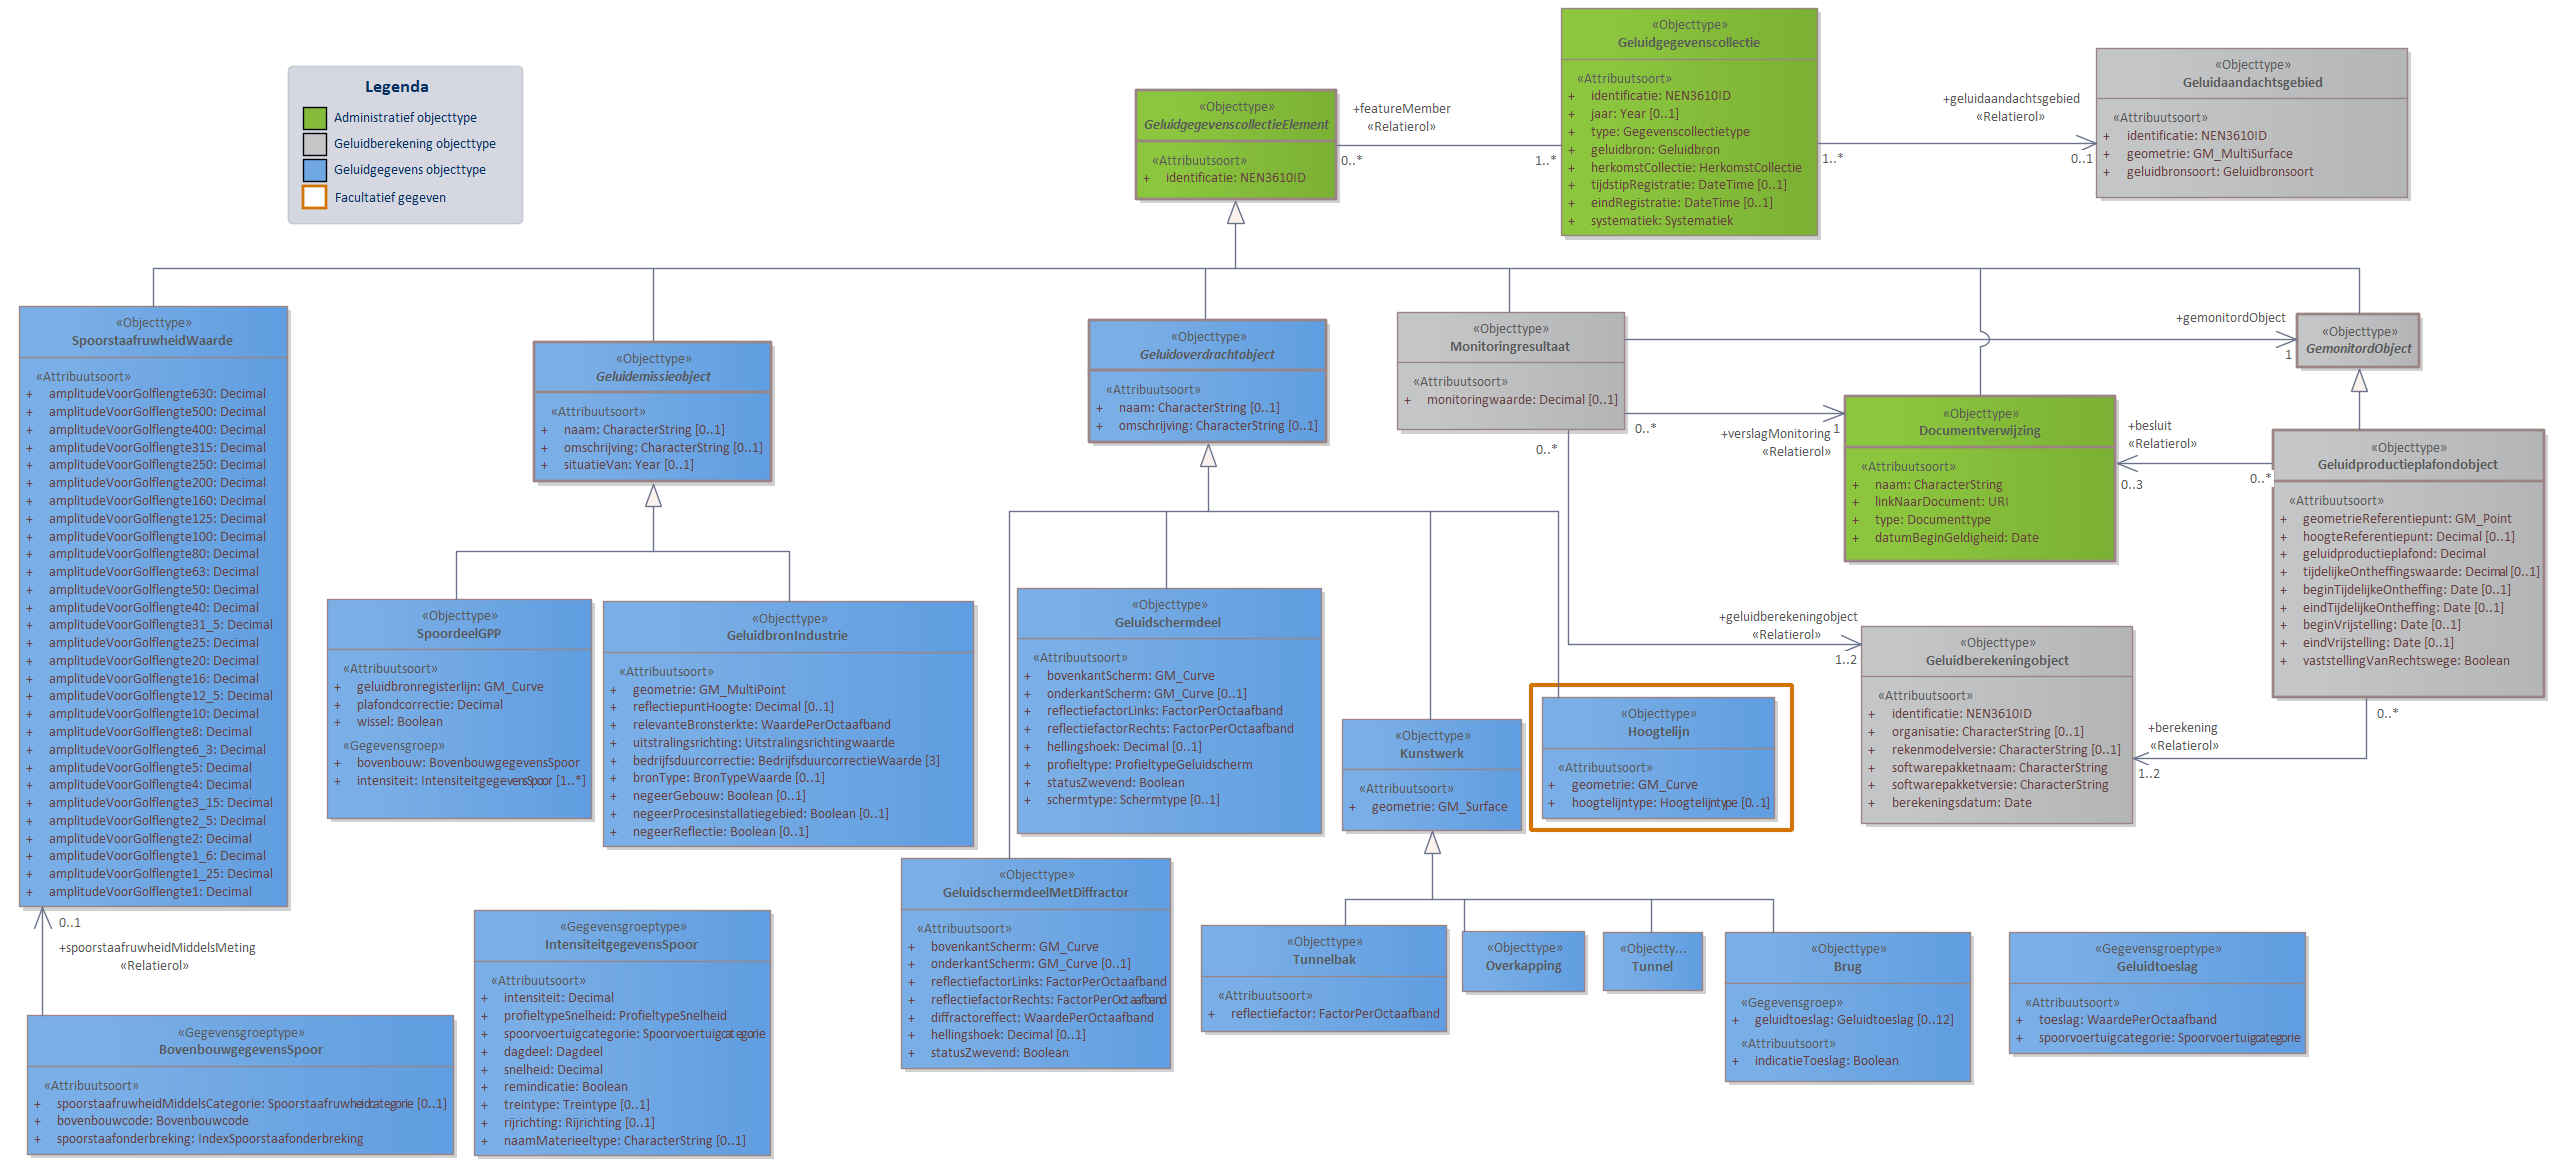
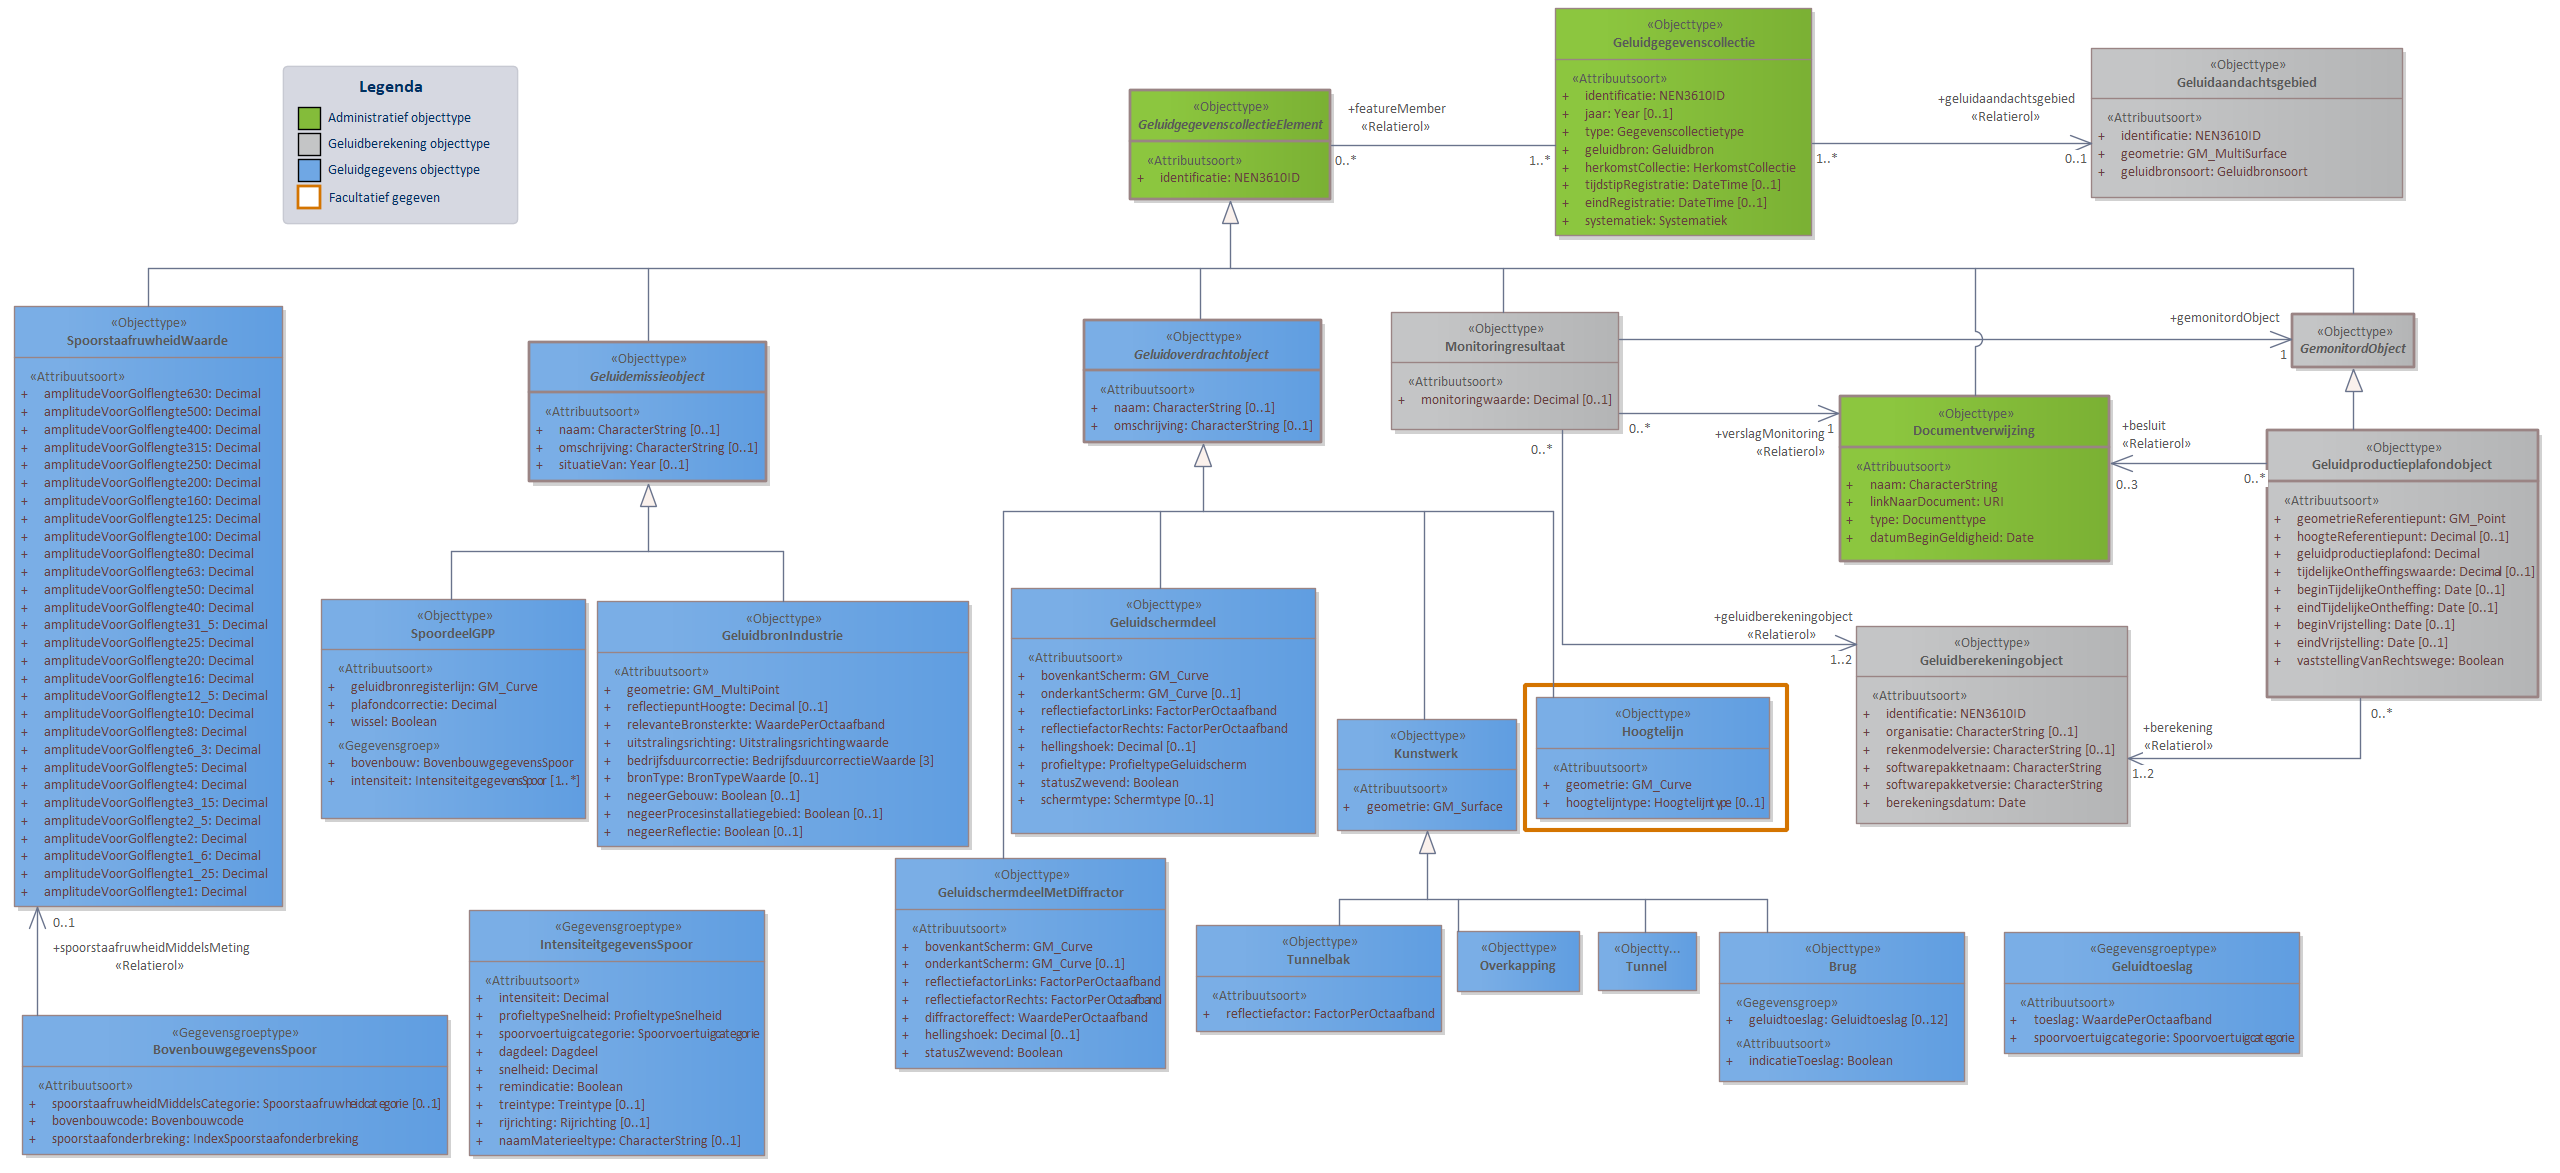
MIMLM-InformatiemodelGeluid-3.1-0-20230920-20230919-150519

diff --git a/data/IMG-cat.respec.html b/data/IMG-cat.respec.html
@@ -1,7 +1,7 @@
 
 <!DOCTYPE HTML><section id="cat" class="normative">
    <h2>Gegevensdefinitie</h2>
-   <!--MIMLM-InformatiemodelGeluid-2.1-0-20221025-20230919-143012 imvertor 1.67.1-->
+   <!--MIMLM-InformatiemodelGeluid-3.1-0-20230920-20230919-150519 imvertor 1.67.1-->
    <section id="EAID_66AE8FA2_74FC_4d4d_B2B2_249C8D6A651F">
       <h3>   Basismodel - overzicht</h3>
       <div class="imageinfo overview"><img src="data/Images/EAID_66AE8FA2_74FC_4d4d_B2B2_249C8D6A651F.png" usemap="#imagemap-EAID_66AE8FA2_74FC_4d4d_B2B2_249C8D6A651F" alt="Diagram &#xA;                        Het Basismodel vormt de samenhang tussen alle domeinen van het IMGeluid. Alle objecttypen en relaties uit het IMGeluid komen samen in een Geluidgegevenscollectie.&#xA;Binnen het IMGeluid worden geluidbrongegevens die gebruikt worden voor GPP en BGE berekeningen, gemodelleerd als een Geluidemissie of Geluidoverdrachtobject. De resultaten van GPP of BGE berekeningen worden opgeslagen in een Geluidgegevenscollectie. De onderliggende juridische vastleggingen, vaststellingen, of monitoringsverslagen van deze omgevings- of monitoringswaarden, worden ook opgeslagen in dezelfde Geluidgegevenscollectie.&#xA;Per geluidbron per toepassing kan er een Geluidgegevenscollectie bestaan. Deze kan geassocieerd worden met maximaal 1 Geluidaandachtsgebied. Wanneer geluidgegevens met betrekking tot cumulatieberekeningen worden aangeleverd, bevat een Geluidgegevenscollectie geen Geluidaandachtsgebied.&#xA;Klik met de rechtermuisknop op het diagram om de afbeelding op volledige grootte in een nieuw tabblad te openen.&#xA;                     "><map name="imagemap-EAID_66AE8FA2_74FC_4d4d_B2B2_249C8D6A651F"><area shape="rect" alt="GemonitordObject" coords="864,436,987,491" href="#graph_EAID_5DD80772_ECDE_480d_9FC2_E806D8FD565E"><area shape="rect" alt="GeluidgegevenscollectieElement" coords="49,98,286,202" href="#graph_EAID_924BD078_D715_461a_B7E9_D7176A7406E0"><area shape="rect" alt="Monitoringresultaat" coords="349,575,597,689" href="#graph_EAID_BA00B77B_D408_4590_8185_CE59E5838F1E"><area shape="rect" alt="Basisgeluidemissieobject" coords="646,633,876,734" href="#graph_EAID_9AD15457_4880_42e5_8C72_4E5EFAC91B15"><area shape="rect" alt="Geluidproductieplafondobject" coords="898,633,1173,881" href="#graph_EAID_237408F8_8CE9_4828_B8FB_1A5B8C917622"><area shape="rect" alt="Geluidberekeningobject" coords="429,857,701,1050" href="#graph_EAID_97ED59FE_9FCA_49a6_8F07_214E48000B76"><area shape="rect" alt="Documentverwijzing" coords="390,313,608,474" href="#graph_EAID_7E137496_1028_4af5_9367_569358A2167B"><area shape="rect" alt="Geluidaandachtsgebied" coords="921,81,1148,220" href="#graph_EAID_B06128AC_518C_4e26_88E5_14ED5A050A19"><area shape="rect" alt="Geluidgegevenscollectie" coords="454,14,723,242" href="#graph_EAID_313C5AF9_49B8_4860_9E65_DE7C70084864"><area shape="rect" alt="Geluidemissieobject" coords="14,622,242,765" href="#graph_EAID_361C96BA_A638_494e_80BA_590ED481A81B"><area shape="rect" alt="Geluidoverdrachtobject" coords="68,320,318,441" href="#graph_EAID_2FEA326B_B7E7_48a4_B50F_00CCB2694677"></map><p><b>Basismodel - overzicht</b>
@@ -88,7 +88,7 @@
    </section>
    <section id="EAID_33DF05AD_62E8_41d4_8CC0_8980CB80739F">
       <h3>   GPP Spoor - overzicht</h3>
-      <div class="imageinfo overview"><img src="data/Images/EAID_33DF05AD_62E8_41d4_8CC0_8980CB80739F.png" usemap="#imagemap-EAID_33DF05AD_62E8_41d4_8CC0_8980CB80739F" alt="Diagram &#xA;                        In domeinmodel GPP Spoor staan objecttypen en relaties die relevant zijn voor geluidbronbeheersing van spoorwegen waarvoor de geluidproductieplafond regeling geldt; en die nodig zijn voor akoestisch onderzoek binnen het geluidaandachtsgebied van spoorwegen.&#xA;Geluidbronnen binnen GPP Spoor worden opgeslagen als lijnbron conform het object SpoordeelGPP, behalve voor geluidbronnen binnen spoorwegemplacementen. Deze geluidbronnen worden opgeslagen als GeluidbronIndustrie.&#xA;Voor ieder Geluidproductieplafondobject langs een Hoofdspoorweg, valt te herleiden op welke geluidberekening de geluidproductieplafondwaarde gebaseerd is. Deze informatie wordt bijgehouden conform het Geluidberekeningobject.&#xA;Ook valt er te herleiden welke geluidbrongegevens gebruikt zijn bij een geluidberekening. Deze geluidbrongegevens zijn samen met het Geluidberekeningsobject terug te vinden in een  Geluidgegevenscollectie in de vorm van gespecialiseerde geluidemissie- en geluidoverdrachtsobjecten.&#xA;&#xA;Klik met de rechtermuisknop op het diagram om de afbeelding op volledige grootte in een nieuw tabblad te openen&#xA;&#xA;                     "><map name="imagemap-EAID_33DF05AD_62E8_41d4_8CC0_8980CB80739F"><area shape="rect" alt="GemonitordObject" coords="2297,314,2420,368" href="#graph_EAID_5DD80772_ECDE_480d_9FC2_E806D8FD565E"><area shape="rect" alt="GeluidschermdeelMetDiffractor" coords="901,858,1171,1069" href="#graph_EAID_0A4CA1DE_F6B4_471a_9AC9_690315ADE781"><area shape="rect" alt="IntensiteitgegevensSpoor" coords="474,910,771,1156" href="#graph_EAID_5FFCEE29_DD71_45db_926C_AB9A7E8677F3"><area shape="rect" alt="BovenbouwgegevensSpoor" coords="27,1015,454,1155" href="#graph_EAID_B5BBEDFE_C275_4c9f_BFF4_0440A0F7820B"><area shape="rect" alt="SpoorstaafruwheidWaarde" coords="19,306,288,907" href="#graph_EAID_E5D9E12A_27B9_417c_ABEB_2149C046EBE0"><area shape="rect" alt="GeluidgegevenscollectieElement" coords="1136,90,1337,200" href="#graph_EAID_924BD078_D715_461a_B7E9_D7176A7406E0"><area shape="rect" alt="Geluidtoeslag" coords="2009,932,2306,1054" href="#graph_EAID_FB0866C8_1438_445a_BB63_B798A00E1626"><area shape="rect" alt="Geluidgegevenscollectie" coords="1561,8,1818,236" href="#graph_EAID_313C5AF9_49B8_4860_9E65_DE7C70084864"><area shape="rect" alt="Monitoringresultaat" coords="1397,312,1625,430" href="#graph_EAID_BA00B77B_D408_4590_8185_CE59E5838F1E"><area shape="rect" alt="GeluidbronIndustrie" coords="603,601,974,847" href="#graph_EAID_7B6D3D2D_0C70_435a_AAFC_FABC9CD61353"><area shape="rect" alt="Kunstwerk" coords="1342,719,1522,831" href="#graph_EAID_E7C0AB60_EC07_4e4f_8F38_E279188D028A"><area shape="rect" alt="Overkapping" coords="1462,931,1585,992" href="#graph_EAID_68402E1D_9370_4bd4_87E6_A21FD883E5B5"><area shape="rect" alt="Tunnelbak" coords="1201,925,1447,1032" href="#graph_EAID_5A041C70_3BE7_4273_87C7_341981B09801"><area shape="rect" alt="Tunnel" coords="1603,932,1703,991" href="#graph_EAID_52FB0AD2_D680_41f5_A4E8_979EF928F841"><area shape="rect" alt="Brug" coords="1725,932,1971,1082" href="#graph_EAID_F36131A1_FE84_4230_B41A_3E55575D3C80"><area shape="rect" alt="Geluidemissieobject" coords="534,342,772,482" href="#graph_EAID_361C96BA_A638_494e_80BA_590ED481A81B"><area shape="rect" alt="Geluidoverdrachtobject" coords="1089,320,1327,443" href="#graph_EAID_2FEA326B_B7E7_48a4_B50F_00CCB2694677"><area shape="rect" alt="Geluidberekeningobject" coords="1861,626,2133,824" href="#graph_EAID_97ED59FE_9FCA_49a6_8F07_214E48000B76"><area shape="rect" alt="Documentverwijzing" coords="1845,396,2116,562" href="#graph_EAID_7E137496_1028_4af5_9367_569358A2167B"><area shape="rect" alt="Geluidaandachtsgebied" coords="2096,48,2408,198" href="#graph_EAID_B06128AC_518C_4e26_88E5_14ED5A050A19"><area shape="rect" alt="Geluidproductieplafondobject" coords="2273,430,2545,698" href="#graph_EAID_237408F8_8CE9_4828_B8FB_1A5B8C917622"><area shape="rect" alt="SpoordeelGPP" coords="327,599,592,819" href="#graph_EAID_711C94BB_E0F7_40e5_A41A_C53DB13272C3"><area shape="rect" alt="Geluidschermdeel" coords="1017,588,1322,834" href="#graph_EAID_BC342A75_1053_4086_9B42_321F22E3FA82"><area shape="rect" alt="Hoogtelijn" coords="1542,697,1775,819" href="#graph_EAID_CE3003A0_5F16_4630_B2A6_519B33439135"></map><p><b>GPP Spoor - overzicht</b>
+      <div class="imageinfo overview"><img src="data/Images/EAID_33DF05AD_62E8_41d4_8CC0_8980CB80739F.png" usemap="#imagemap-EAID_33DF05AD_62E8_41d4_8CC0_8980CB80739F" alt="Diagram &#xA;                        In domeinmodel GPP Spoor staan objecttypen en relaties die relevant zijn voor geluidbronbeheersing van spoorwegen waarvoor de geluidproductieplafond regeling geldt; en die nodig zijn voor akoestisch onderzoek binnen het geluidaandachtsgebied van spoorwegen.&#xA;Geluidbronnen binnen GPP Spoor worden opgeslagen als lijnbron conform het object SpoordeelGPP, behalve voor geluidbronnen binnen spoorwegemplacementen. Deze geluidbronnen worden opgeslagen als GeluidbronIndustrie.&#xA;Voor ieder Geluidproductieplafondobject langs een Hoofdspoorweg, valt te herleiden op welke geluidberekening de geluidproductieplafondwaarde gebaseerd is. Deze informatie wordt bijgehouden conform het Geluidberekeningobject.&#xA;Ook valt er te herleiden welke geluidbrongegevens gebruikt zijn bij een geluidberekening. Deze geluidbrongegevens zijn samen met het Geluidberekeningsobject terug te vinden in een  Geluidgegevenscollectie in de vorm van gespecialiseerde geluidemissie- en geluidoverdrachtsobjecten.&#xA;&#xA;Klik met de rechtermuisknop op het diagram om de afbeelding op volledige grootte in een nieuw tabblad te openen&#xA;&#xA;                     "><map name="imagemap-EAID_33DF05AD_62E8_41d4_8CC0_8980CB80739F"><area shape="rect" alt="GemonitordObject" coords="2292,314,2415,368" href="#graph_EAID_5DD80772_ECDE_480d_9FC2_E806D8FD565E"><area shape="rect" alt="GeluidschermdeelMetDiffractor" coords="895,858,1166,1069" href="#graph_EAID_0A4CA1DE_F6B4_471a_9AC9_690315ADE781"><area shape="rect" alt="IntensiteitgegevensSpoor" coords="469,910,765,1156" href="#graph_EAID_5FFCEE29_DD71_45db_926C_AB9A7E8677F3"><area shape="rect" alt="BovenbouwgegevensSpoor" coords="22,1015,448,1155" href="#graph_EAID_B5BBEDFE_C275_4c9f_BFF4_0440A0F7820B"><area shape="rect" alt="SpoorstaafruwheidWaarde" coords="14,306,283,907" href="#graph_EAID_E5D9E12A_27B9_417c_ABEB_2149C046EBE0"><area shape="rect" alt="GeluidgegevenscollectieElement" coords="1130,90,1331,200" href="#graph_EAID_924BD078_D715_461a_B7E9_D7176A7406E0"><area shape="rect" alt="Geluidtoeslag" coords="2004,932,2300,1054" href="#graph_EAID_FB0866C8_1438_445a_BB63_B798A00E1626"><area shape="rect" alt="Geluidgegevenscollectie" coords="1555,8,1812,236" href="#graph_EAID_313C5AF9_49B8_4860_9E65_DE7C70084864"><area shape="rect" alt="Monitoringresultaat" coords="1391,312,1619,430" href="#graph_EAID_BA00B77B_D408_4590_8185_CE59E5838F1E"><area shape="rect" alt="GeluidbronIndustrie" coords="597,601,969,847" href="#graph_EAID_7B6D3D2D_0C70_435a_AAFC_FABC9CD61353"><area shape="rect" alt="Kunstwerk" coords="1337,719,1517,831" href="#graph_EAID_E7C0AB60_EC07_4e4f_8F38_E279188D028A"><area shape="rect" alt="Overkapping" coords="1457,931,1580,992" href="#graph_EAID_68402E1D_9370_4bd4_87E6_A21FD883E5B5"><area shape="rect" alt="Tunnelbak" coords="1196,925,1442,1032" href="#graph_EAID_5A041C70_3BE7_4273_87C7_341981B09801"><area shape="rect" alt="Tunnel" coords="1598,932,1697,991" href="#graph_EAID_52FB0AD2_D680_41f5_A4E8_979EF928F841"><area shape="rect" alt="Brug" coords="1719,932,1965,1082" href="#graph_EAID_F36131A1_FE84_4230_B41A_3E55575D3C80"><area shape="rect" alt="Geluidemissieobject" coords="529,342,767,482" href="#graph_EAID_361C96BA_A638_494e_80BA_590ED481A81B"><area shape="rect" alt="Geluidoverdrachtobject" coords="1084,320,1322,443" href="#graph_EAID_2FEA326B_B7E7_48a4_B50F_00CCB2694677"><area shape="rect" alt="Geluidberekeningobject" coords="1856,626,2128,824" href="#graph_EAID_97ED59FE_9FCA_49a6_8F07_214E48000B76"><area shape="rect" alt="Documentverwijzing" coords="1840,396,2110,562" href="#graph_EAID_7E137496_1028_4af5_9367_569358A2167B"><area shape="rect" alt="Geluidaandachtsgebied" coords="2091,48,2403,198" href="#graph_EAID_B06128AC_518C_4e26_88E5_14ED5A050A19"><area shape="rect" alt="Geluidproductieplafondobject" coords="2267,430,2539,698" href="#graph_EAID_237408F8_8CE9_4828_B8FB_1A5B8C917622"><area shape="rect" alt="SpoordeelGPP" coords="321,599,586,819" href="#graph_EAID_711C94BB_E0F7_40e5_A41A_C53DB13272C3"><area shape="rect" alt="Geluidschermdeel" coords="1011,588,1316,834" href="#graph_EAID_BC342A75_1053_4086_9B42_321F22E3FA82"><area shape="rect" alt="Hoogtelijn" coords="1536,697,1770,819" href="#graph_EAID_CE3003A0_5F16_4630_B2A6_519B33439135"></map><p><b>GPP Spoor - overzicht</b>
             
             <p>In domeinmodel GPP Spoor staan objecttypen en relaties die relevant zijn voor geluidbronbeheersing
                van spoorwegen waarvoor de geluidproductieplafond regeling geldt; en die nodig zijn
@@ -25995,7 +25995,7 @@
 </section>
 <section id="lis" class="normative">
    <h2>Inhoud van waardenlijsten</h2>
-   <!--MIMLM-InformatiemodelGeluid-2.1-0-20221025-20230919-143012 imvertor 1.67.1--><a class="anchor" id="graph_EAID_C9ACE184_6E2B_40c1_ACE0_A7C5EE554EF9"></a><a class="anchor" id="detail_class_IMGeluidAlgemeen_Schermtype"></a><section id="detail_class_IMGeluidAlgemeen_Schermtype">
+   <!--MIMLM-InformatiemodelGeluid-3.1-0-20230920-20230919-150519 imvertor 1.67.1--><a class="anchor" id="graph_EAID_C9ACE184_6E2B_40c1_ACE0_A7C5EE554EF9"></a><a class="anchor" id="detail_class_IMGeluidAlgemeen_Schermtype"></a><section id="detail_class_IMGeluidAlgemeen_Schermtype">
       <h3>Enumeratie details  Schermtype</h3>
       
       <table style="width: 100%;" class="list">
